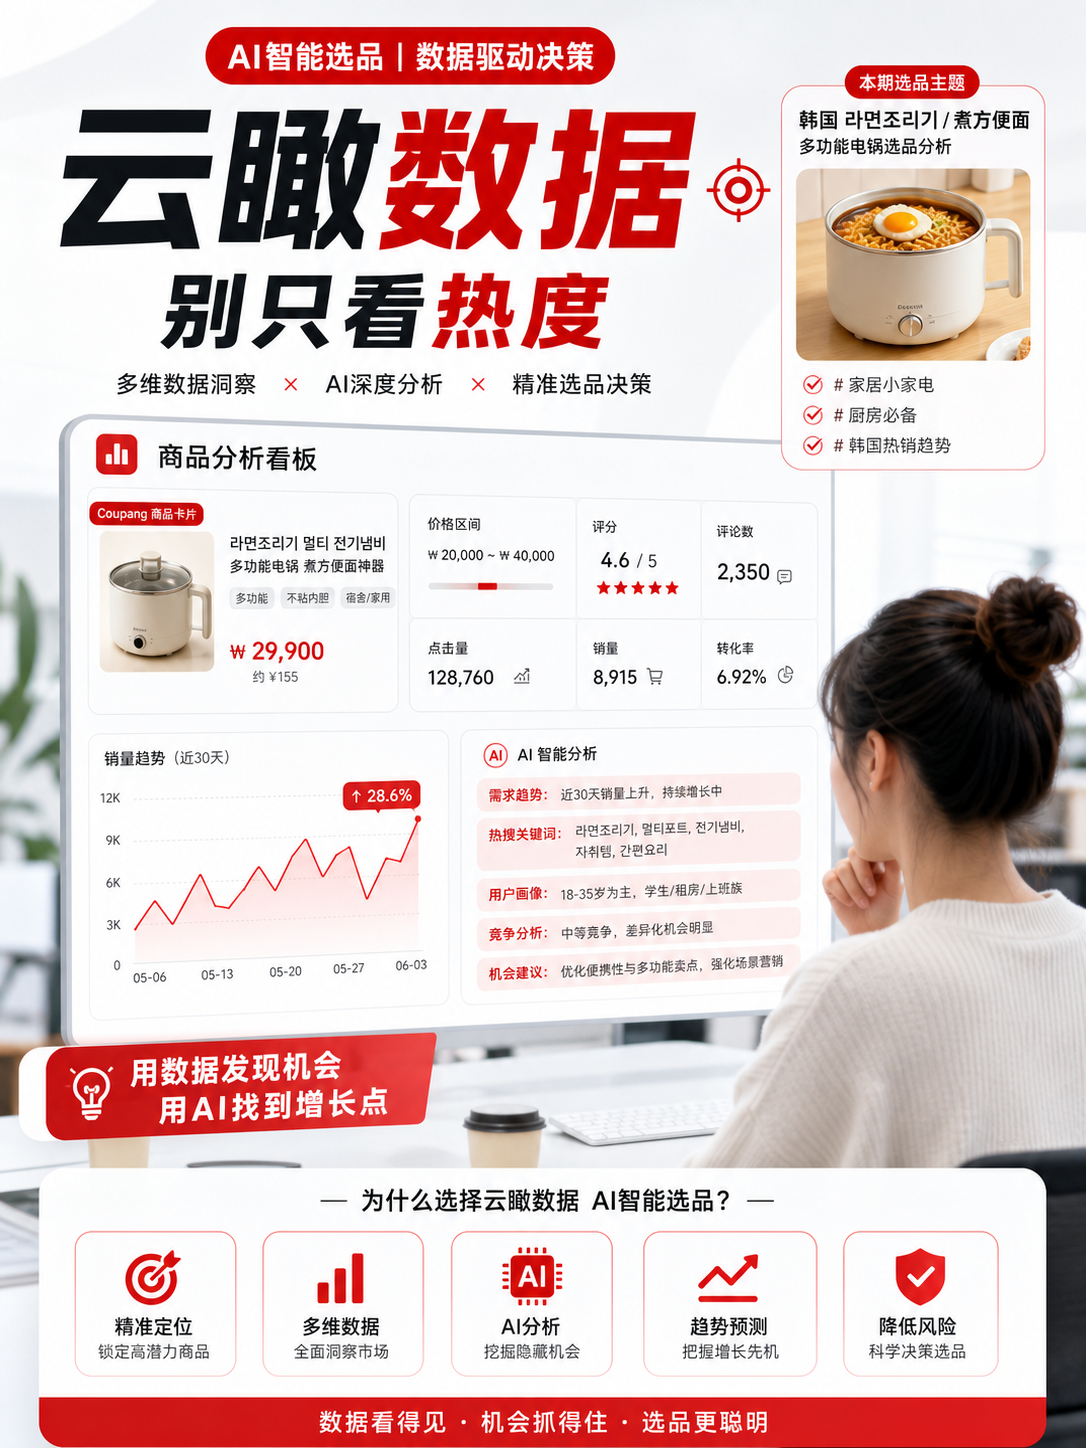
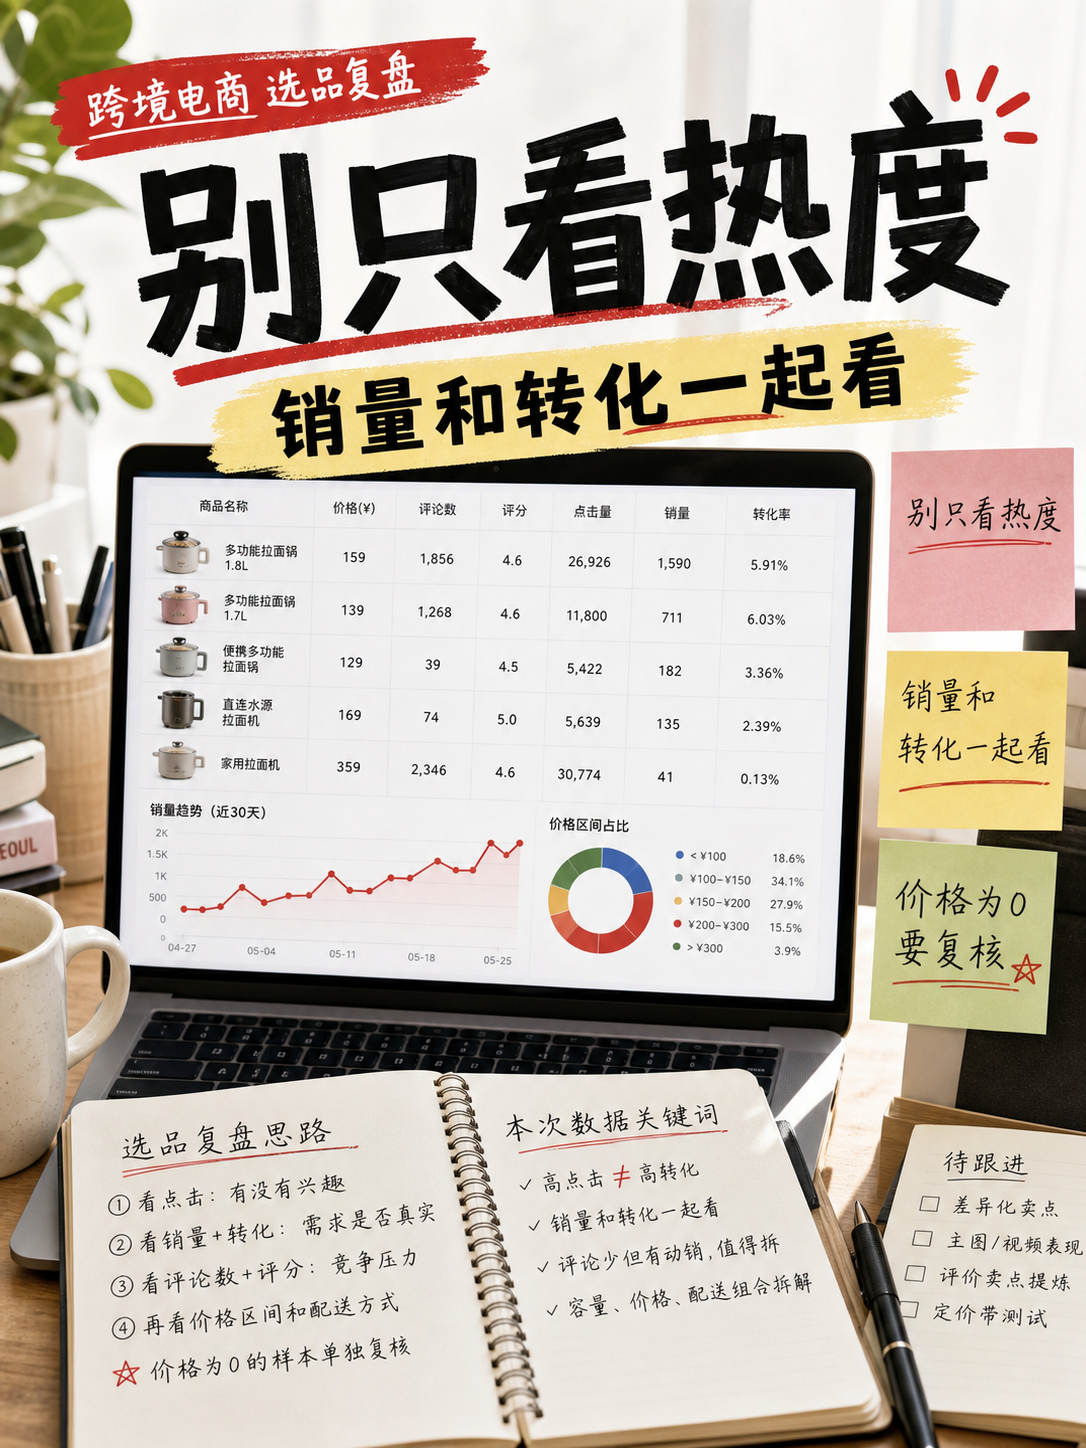
Refine XHS content generation rules

diff --git a/skills/write-xhs-yunkan-note/SKILL.md b/skills/write-xhs-yunkan-note/SKILL.md
@@ -1,50 +1,45 @@
 ---
 name: write-xhs-yunkan-note
-description: Write Xiaohongshu promotion notes for YunKan Data based on ecommerce product data analysis. Use when the user wants a seed-style, high-conversion Xiaohongshu note focused on AI intelligent product selection, data visualization, decision shortcuts, Coupang crawler data, or avoiding sensitive/platform-banned wording.
+description: Write Xiaohongshu notes based on ecommerce product data analysis. Use when the user wants a seed-style, conversion-oriented Xiaohongshu note from Coupang crawler data, with a natural human voice, low AI flavor, practical selection logic, and no outward mention of the brand name "云瞰数据".
 ---
 
-# Write XHS YunKan Note
+# Write XHS Note
 
-Write a Xiaohongshu note that promotes "云瞰数据" as a practical AI product-selection and Coupang data analysis tool.
+Write a Xiaohongshu note from ecommerce product analysis. The internal product context may be about a crawler/data-analysis tool, but the outward note must read like a real operator's selection recap, not like software advertising.
 
-## Required Prompt Intent
+## Hard Brand Rule
 
-Follow this product-content prompt:
+- Do not include the text "云瞰数据" anywhere in generated outward content.
+- Apply this to title options, body, cover text, hashtags, image prompts, captions, and publishing drafts.
+- Do not replace it with a near-synonym brand alias. Use neutral terms such as "这份数据", "商品表", "后台数据", "选品表", or "这次抓到的数据".
 
-> 请根据我每次上传的爬虫数据(excel)，帮我写种草型的爆款转化笔记。聚焦 "AI智能选品" 核心卖点，采用 "数据可视化+决策捷径" 的种草逻辑，符合小红书高信息密度+强实用性的内容特性，笔记中要规避敏感词平台禁用词。
+## Writing Intent
 
-## Product Facts To Use
+Use each uploaded crawler spreadsheet to write a practical, seed-style Xiaohongshu note for cross-border sellers. Focus on product-selection reasoning from data, especially clicks, sales, reviews, rating, conversion, price band, delivery type, and visible demand signals.
 
-"云瞰数据" can capture Coupang product base data:
-
-- id, sku, main image, product name
-- delivery type
-- price
-- review count
-- rating
-- clicks
-- sales
-
-It uses AI to analyze market trends and help sellers shorten product-selection decisions.
-
-## Writing Rules
+## Human Voice Rules
 
 - Write in simplified Chinese.
-- Lead with a concrete pain point for cross-border sellers.
-- Use "数据可视化 + 决策捷径" logic: show what the data reveals, then explain the action it enables.
-- Keep the tone practical, dense, and useful, not exaggerated.
+- Sound like a real operator sharing a recent finding: slightly conversational, specific, and grounded.
+- Prefer "我这次看下来", "这个点挺容易误判", "我会先看", "值得再拆" over abstract marketing phrases.
+- Avoid stiff phrases such as "赋能", "闭环", "链路", "降本增效", "矩阵化", "数据可视化+决策捷径".
+- Avoid repeatedly saying "AI". If needed, mention "工具辅助整理" or "把数据先跑一遍".
+- Keep claims modest. Do not promise results.
+- Do not fabricate exact metrics. Use exact numbers only when they appear in the analysis.
+- Include small caveats when useful, for example "价格为 0 的样本要单独复核".
+
+## Compliance Rules
+
 - Avoid absolute or risky claims such as "稳赚", "暴富", "最强", "第一", "百分百", "躺赚", "官方认证", "保证出单".
 - Avoid promising unauthorized scraping, platform bypassing, or violating third-party rules.
-- Do not fabricate exact metrics. If the analysis has exact numbers, cite them; otherwise use qualitative wording.
-- Include a title, body, and hashtags.
+- Avoid sounding like a hard sell. The note should feel like an observation and method share.
 
 ## Output Format
 
 Return:
 
-1. `标题`: 2-3 options, each under 20 Chinese characters when possible.
-2. `正文`: one polished Xiaohongshu note.
-3. `封面文字`: 6-12 Chinese characters, strong but compliant.
-4. `标签`: 8-12 hashtags.
-5. `合规检查`: list any wording softened or avoided.
-
+1. `标题`: 2-3 natural options, each under 20 Chinese characters when possible.
+2. `正文`: one polished Xiaohongshu note under 1000 Chinese characters unless the user asks otherwise.
+3. `封面文字`: 6-12 Chinese characters, no brand name.
+4. `标签`: 8-12 hashtags, no brand name.
+5. `合规检查`: list wording softened or avoided.

diff --git a/output/yunkan-xhs-note.md b/output/yunkan-xhs-note.md
@@ -1,4 +1,4 @@
-# 云瞰数据小红书发布稿
+# 小红书发布稿
 
 ## 推荐标题
 
@@ -7,37 +7,36 @@
 ## 标题备选
 
 1. 别只看热度选品
-2. Coupang选品看这3数
-3. 拉面锅数据拆解
+2. 这个品先别急冲
+3. 拉面锅选品复盘
 
 ## 正文
 
-做 Coupang 选品，最容易踩的坑就是：看到点击高，就以为这个品能做。
+做 Coupang 选品，我现在最怕一种情况：点击看着很热闹，最后销量没跟上。
 
-我这次用“云瞰数据”看了一组 라면조리기 / 煮方便面相关商品数据，一共 129 条，字段包括商品 id、sku、名称、配送方式、价格、评论数、评分、点击量、销量、转化率等。
+这次看了一组 라면조리기 / 煮方便面相关商品数据，共 129 条，里面有价格、评论数、评分、点击量、销量、转化率、配送方式这些字段。
 
-几个信号很明显：
+我自己会先抓 3 个点：
 
-1. 热度不等于好机会
+1. 高点击不一定是好机会
 
-有个家用拉面机点击量 30,774，但销量 41，转化率只有 0.13%。这种款适合研究卖点和主图吸引力，但不适合只凭“流量大”就冲。
+有个家用拉面机点击量 30,774，但销量 41，转化率 0.13%。这种品可以拿来研究主图和卖点为什么吸引人，但真要选品，不能只看它有流量。
 
-2. 真正值得盯的是“销量 + 转化”
+2. 销量和转化要放一起看
 
-KitchenArt 1.8L 多功能拉面锅销量 1,590，点击量 26,926，转化率 5.91%；另一款 1.7L 多功能锅销量 711，转化率 6.03%。这类数据说明需求已经被验证，适合继续拆价格、容量、配送和评论卖点。
+KitchenArt 1.8L 多功能拉面锅销量 1,590，点击量 26,926，转化率 5.91%；另一款 1.7L 多功能锅销量 711，转化率 6.03%。这种才更像需求被验证过的样本，后面值得继续拆容量、配送、评论和价格。
 
-3. 评论少但动销不错，是内容机会
+3. 评论少但有动销，可以再翻一层
 
-比如 2026 款便携多功能拉面锅，评论数 39，销量 182，评分 4.5；还有一款直连水源的拉面机，评论数 74，销量 135，评分 5。这类商品可能还没被内容充分覆盖，适合重点看差异化卖点。
+比如 2026 款便携多功能拉面锅，评论数 39，销量 182，评分 4.5；还有直连水源的拉面机，评论数 74，销量 135，评分 5。评论没那么厚，但已经有动销，适合再看内容和差异化卖点。
 
-我现在更习惯用“数据可视化 + 决策捷径”的方式做选品：
-先看点击判断市场热度，再看销量和转化判断真实需求，最后用评论数和评分判断竞争强度。
+我现在的顺序是：先看点击判断有没有人感兴趣，再看销量和转化判断需求是不是真的，最后看评论数和评分判断竞争压力。
 
-云瞰数据比较适合跨境卖家做这种初筛：把 Coupang 商品基础数据采集下来，再交给 AI 做趋势分析，能少走很多“凭感觉选品”的弯路。
+价格为 0 的样本还要单独复核，但这套思路能先帮我少踩很多“看起来很火”的坑。
 
 ## 标签
 
-#跨境电商 #Coupang #AI选品 #云瞰数据 #小红书运营 #选品思路 #数据分析 #韩国电商 #商品分析 #电商工具 #爆品拆解
+#跨境电商 #Coupang #选品思路 #小红书运营 #数据分析 #韩国电商 #商品分析 #电商工具 #爆品拆解 #运营复盘
 
 ## 封面
 
@@ -56,8 +55,8 @@ C:\Users\Administrator\Documents\redBook 2\output\yunkan-xhs-cover.png
 - 点击量：中位数 5,310，最高 30,774
 - 销量：中位数 125，最高 1,590
 - 转化率：中位数 2.18，最高 44.53
-- 关键洞察：高点击不一定高转化，AI 选品应同时看点击、销量、转化、评论和评分。
+- 关键洞察：高点击不一定高转化，要同时看点击、销量、转化、评论和评分。
 
 ## 合规检查
 
-已规避“稳赚、暴富、保证出单、第一、最强、官方认证”等绝对化或高风险表达。文案定位为工具分析和选品方法，不承诺经营结果。
+已规避“稳赚、暴富、保证出单、第一、最强、官方认证”等绝对化或高风险表达。文案定位为选品复盘，不承诺经营结果。

diff --git a/skills/generate-xhs-cover/SKILL.md b/skills/generate-xhs-cover/SKILL.md
@@ -1,31 +1,35 @@
 ---
 name: generate-xhs-cover
-description: Generate or prompt an image-generation tool for a Xiaohongshu cover promoting YunKan Data. Use when the user asks for image2, image generation, cover art, poster, thumbnail, or a Xiaohongshu-style visual for AI product selection, Coupang data analysis, or YunKan Data marketing.
+description: Generate or prompt an image-generation tool for a Xiaohongshu cover based on ecommerce product-selection analysis. Use when the user asks for image2, image generation, cover art, poster, thumbnail, or a Xiaohongshu-style visual for Coupang data analysis, and ensure generated cover images contain no "云瞰数据" text.
 ---
 
 # Generate XHS Cover
 
-Use the available image generation tool to create a Xiaohongshu-friendly cover image for "云瞰数据".
+Use the available image generation tool to create a Xiaohongshu-friendly cover image from the product-selection analysis.
+
+## Hard Brand Rule
+
+- Do not put "云瞰数据" anywhere in the image prompt, visible poster text, title, subtitle, badge, watermark, or filename recommendation.
+- Do not use a replacement brand alias. The cover should look like an operator's data recap, not a branded ad.
 
 ## Cover Direction
 
 Create a vertical 3:4 cover suitable for Xiaohongshu feed promotion:
 
-- Subject: cross-border ecommerce seller using AI data dashboard for Coupang product selection.
-- Visuals: clean data dashboard, product cards, trend chart, SKU table, AI analysis highlight.
-- Brand text: "云瞰数据" and a short cover phrase from the note.
-- Style: bright, professional, high-information, Chinese social commerce poster.
-- Avoid: fake platform logos, screenshots that impersonate Coupang/Xiaohongshu UI, exaggerated money imagery, prohibited claims.
+- Subject: cross-border ecommerce seller reviewing a product-selection data dashboard.
+- Visuals: clean dashboard, product cards, trend chart, SKU table, price band, rating, reviews, clicks, sales, and conversion signals.
+- Text style: short human headline such as "别只看热度", "销量转化一起看", or "这个品先别急冲".
+- Style: bright, practical, clean, high-information Chinese social commerce poster.
+- Avoid: fake platform logos, real marketplace logos, brand names, exaggerated money imagery, prohibited claims, or text that promises outcomes.
 
 ## Suggested Prompt Template
 
-Use this as the base prompt and adapt to the actual note:
+Use this as the base prompt and adapt it to the actual note:
 
 ```text
-竖版3:4小红书推广封面，主题是"云瞰数据 AI智能选品"，画面中心是一位跨境电商运营者在查看现代数据看板，看板包含商品卡片、价格区间、评分、评论数、点击量、销量、趋势折线图和AI分析标签。整体风格明亮、干净、专业、高信息密度，适合小红书种草封面。主标题文字："云瞰数据"，副标题文字："{cover_text}"。使用红白色点缀和清晰版式，不出现真实平台logo，不承诺暴利，不使用夸张现金元素。
+竖版3:4小红书封面，主题是跨境电商选品复盘。画面中心是一位运营者在查看现代数据看板，看板包含商品卡片、价格区间、评分、评论数、点击量、销量、转化率和趋势折线图。整体风格明亮、干净、专业、高信息密度，像真实运营复盘而不是广告海报。主标题文字："{cover_text}"。副标题文字："销量和转化一起看"。不出现任何品牌名，不出现“云瞰数据”字样，不出现真实平台 logo，不承诺暴利，不使用夸张现金元素。
 ```
 
 ## After Generation
 
 Show the generated image path or markdown image preview when available. If the tool only returns a prompt, provide the final prompt and ask the user to run it in their preferred image generator.
-

diff --git a/README.md b/README.md
@@ -1,26 +1,36 @@
 # YunKan XHS Growth Codex Plugin
 
-This plugin helps Codex analyze Coupang product Excel data and create a Xiaohongshu promotion workflow for "云瞰数据".
+This plugin helps Codex analyze Coupang product Excel data and create Xiaohongshu-ready product-selection content.
 
 ## What It Provides
 
 - Excel/CSV analysis for Coupang product fields: id, sku, main image, product name, delivery type, price, reviews, rating, clicks, and sales.
-- Xiaohongshu note generation focused on "AI智能选品", "数据可视化", and "决策捷径".
-- Xiaohongshu cover image generation guidance for image-generation tools.
+- Xiaohongshu note generation from product data, written like a practical operator recap instead of a hard-sell AI draft.
+- Cover image generation guidance for Xiaohongshu-style product-selection posts.
 - Browser-assisted Xiaohongshu draft filling or publishing through an already logged-in account.
 - A clear Playwright dependency warning when automated browser publishing is requested but Playwright is not installed.
+
+## Content Rules
+
+- Generated public-facing titles, body text, hashtags, cover text, and image prompts must not contain `云瞰数据`.
+- Copy should feel human: specific observations, modest claims, fewer slogans, and no obvious AI-flavored wording.
+- Avoid absolute or risky claims such as guaranteed sales, easy profit, or platform endorsement.
 
 ## Skills
 
 - `$xhs-yunkan-campaign`: end-to-end workflow.
 - `$analyze-coupang-excel`: spreadsheet analysis.
-- `$write-xhs-yunkan-note`: promotional note writing.
+- `$write-xhs-yunkan-note`: Xiaohongshu note writing.
 - `$generate-xhs-cover`: cover image generation.
 - `$publish-xhs-note`: browser-based Xiaohongshu posting workflow.
 
 ## Install From Git
 
-Publish this repository to GitHub, then install the plugin from the repository URL in Codex's plugin flow.
+Install this plugin from:
+
+```text
+https://github.com/t-ms/redBook-2.git
+```
 
 For local testing, keep this folder as the plugin root. The required manifest is at:
 
@@ -31,7 +41,7 @@ For local testing, keep this folder as the plugin root. The required manifest is
 ## Usage Example
 
 ```text
-Use $xhs-yunkan-campaign to analyze this Coupang Excel file, write a Xiaohongshu note for 云瞰数据, generate a cover image, and prepare it in my logged-in Xiaohongshu account.
+Use $xhs-yunkan-campaign to analyze this Coupang Excel file, write a natural Xiaohongshu note, generate a cover image, and prepare it in my logged-in Xiaohongshu account.
 ```
 
 The publishing skill prepares a draft by default and only clicks the final publish button after explicit approval or a direct-publish request.

diff --git a/skills/xhs-yunkan-campaign/SKILL.md b/skills/xhs-yunkan-campaign/SKILL.md
@@ -1,9 +1,9 @@
 ---
 name: xhs-yunkan-campaign
-description: End-to-end YunKan Data Xiaohongshu campaign workflow. Use when the user wants to upload Coupang Excel data, analyze cross-border ecommerce product trends, generate a Xiaohongshu promotional note, create an image2/AI cover image, and optionally publish through a logged-in Xiaohongshu browser account.
+description: End-to-end Xiaohongshu campaign workflow for Coupang product data. Use when the user wants to upload Coupang Excel data, analyze cross-border ecommerce product trends, generate a natural Xiaohongshu note, create an image2/AI cover image with no "云瞰数据" text, and optionally publish through a logged-in Xiaohongshu browser account.
 ---
 
-# XHS YunKan Campaign
+# XHS Campaign
 
 Coordinate the full workflow by invoking the plugin's focused skills as needed.
 
@@ -18,7 +18,8 @@ Coordinate the full workflow by invoking the plugin's focused skills as needed.
 
 - Language: simplified Chinese.
 - Audience: Coupang and cross-border ecommerce sellers who need faster product-selection decisions.
-- Positioning: "云瞰数据" is a crawler/data-analysis assistant for AI intelligent product selection.
+- Outward content: do not include "云瞰数据" in generated images, titles, body text, tags, or publishing drafts.
+- Voice: use a natural operator recap style; avoid obvious AI-generated or hard-sell wording.
 - Publishing behavior: prepare draft by default; click final publish only after explicit approval or an explicit direct-publish request.
 
 ## Final Response
@@ -30,4 +31,3 @@ Summarize:
 - generated cover path or prompt
 - whether the Xiaohongshu post is drafted or published
 - any missing dependency, login, or compliance issue
-